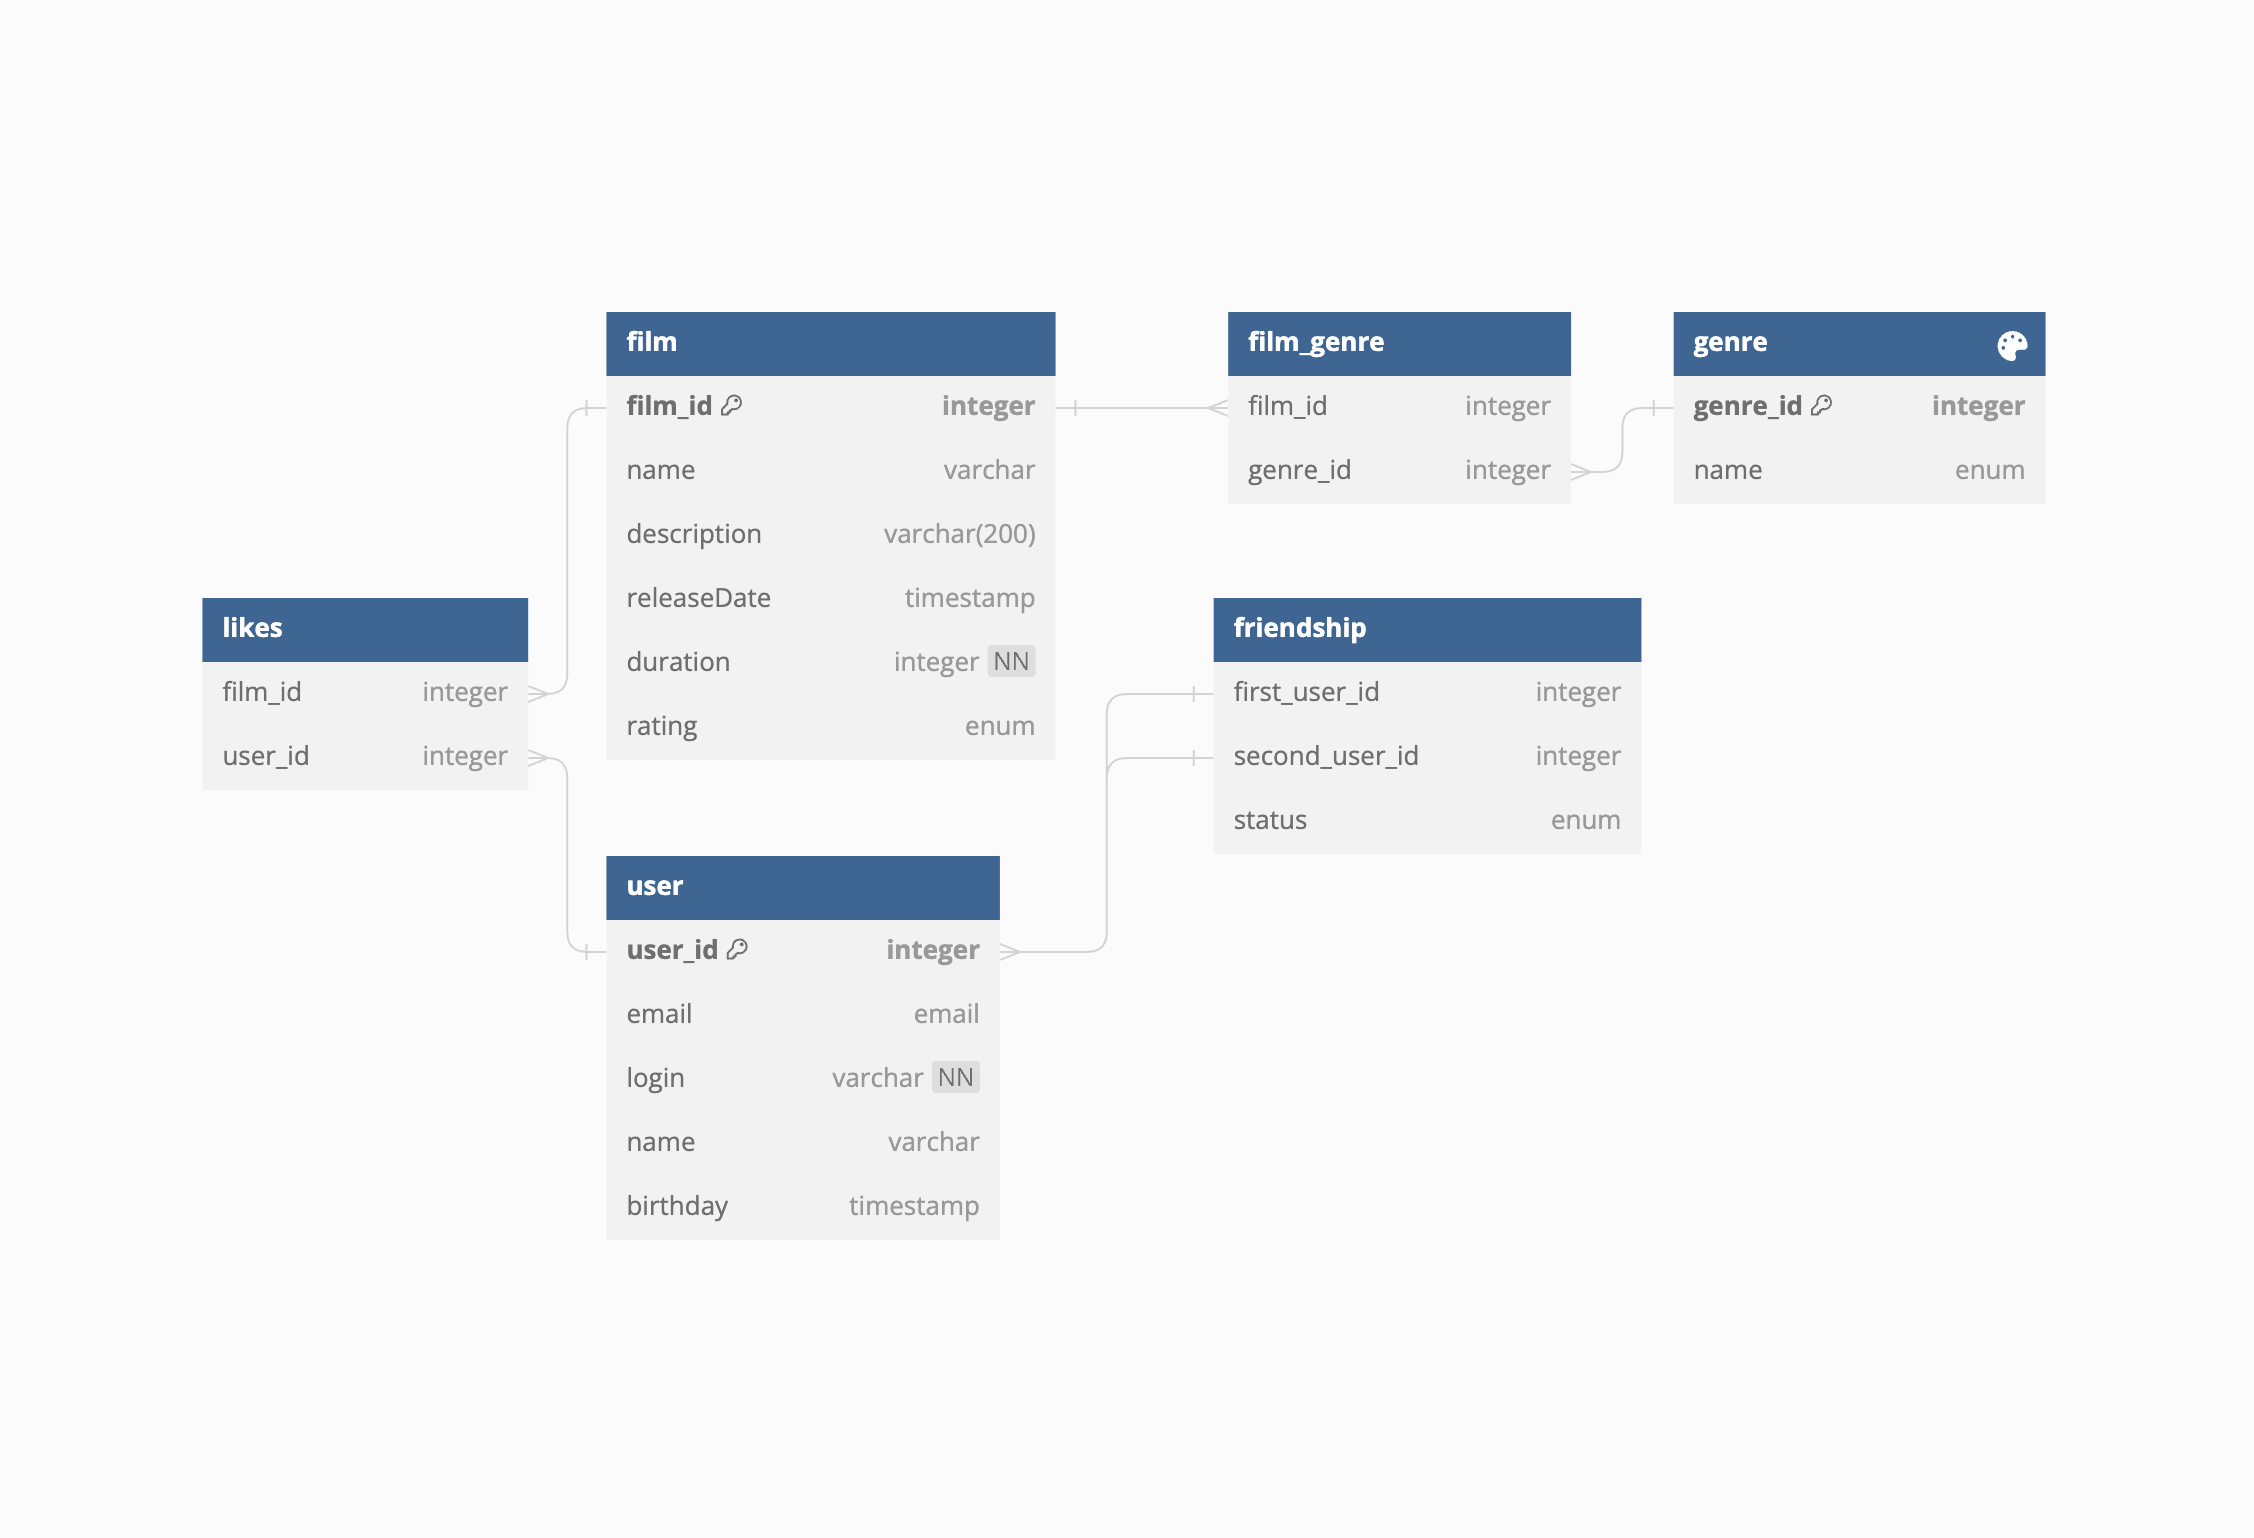
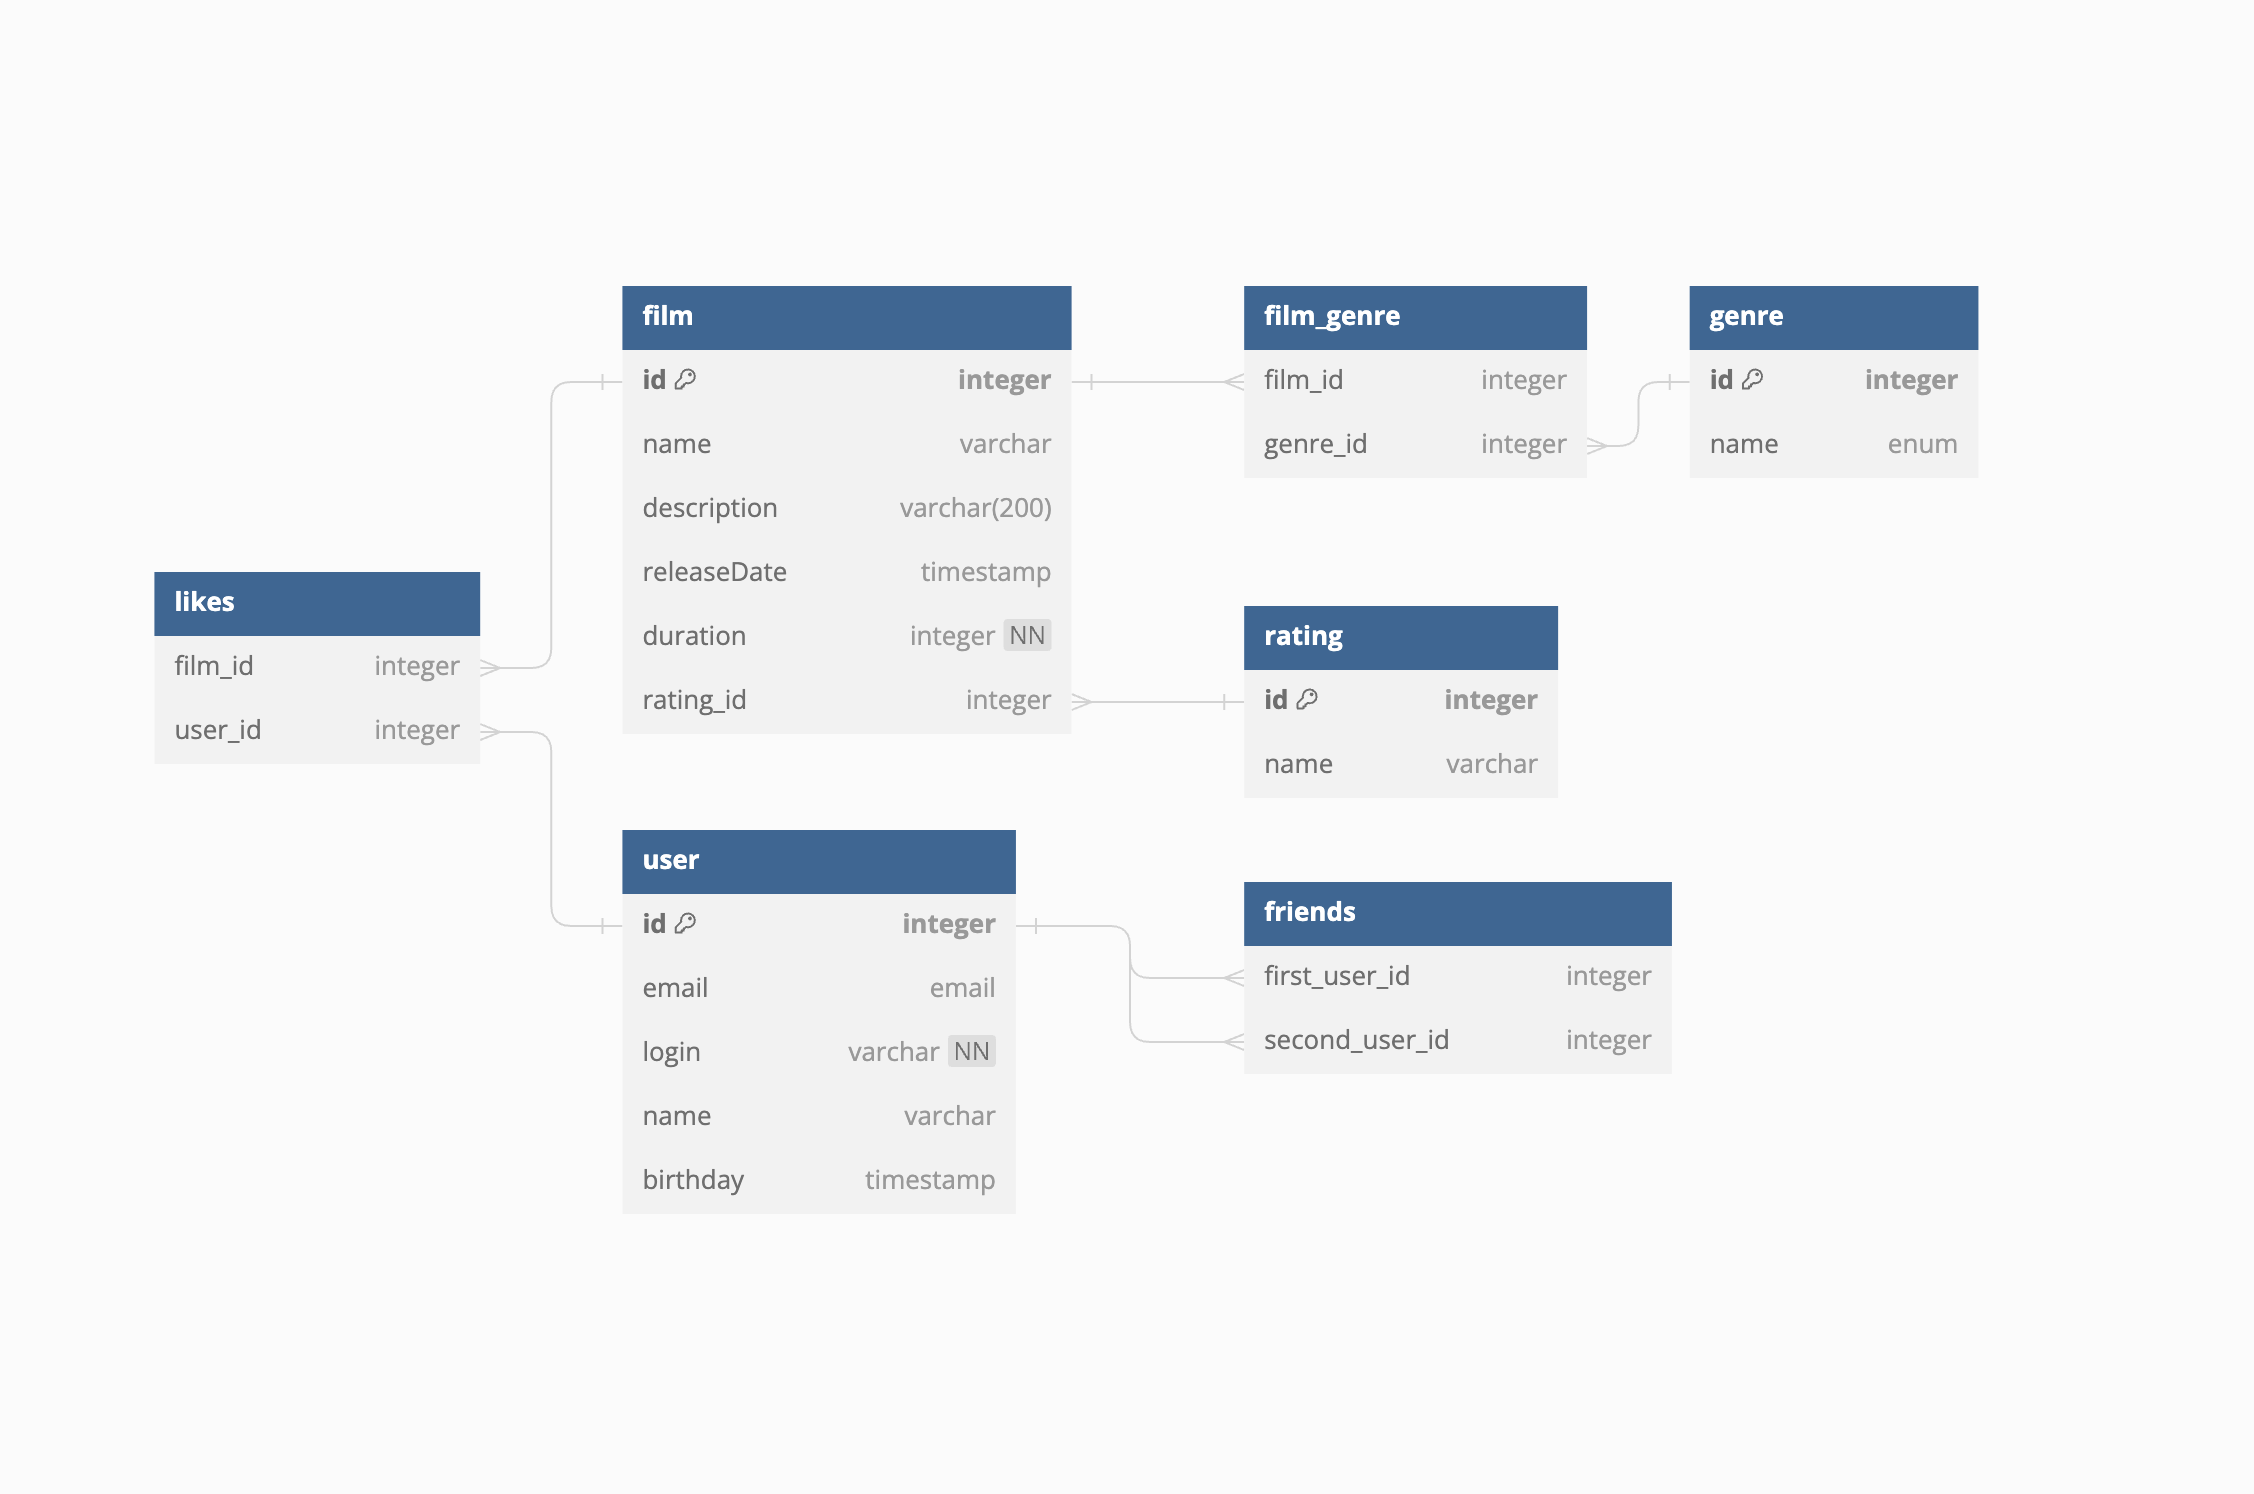
add readme

diff --git a/README.md b/README.md
@@ -1,2 +1,28 @@
-# java-filmorate
+# Java-filmorate
 Template repository for Filmorate project.
+![ER DIAGRAM](DB.png)
+
+- **friends**: таблица отображения друзей друг у друга.
+- **rating**: таблица mpa-рейтинга, у фильма может быть один рейтинг. 
+- **likes**: таблица связввет id фильма с id пользователя, который поставил лайк. 
+- **genre**: фильм можно отести к нескольким жанрам, но в каждому жанру может принадлежать множество фильмов. **film_genre** соединительная таблица.
+
+Получить все фильмы:
+```
+SELECT *  
+FROM film;
+```
+Получить всех пользователей:
+```
+SELECT *  
+FROM user;
+```
+Получить топ 10 фильмов:
+```
+SELECT f.name, COUNT(l.user_id) AS count_like
+FROM film AS f
+LEFT JOIN likes AS l ON f.id = l.film_id
+GROUP BY f.id
+ORDER BY count_like DESC
+LIMIT 10;
+```
